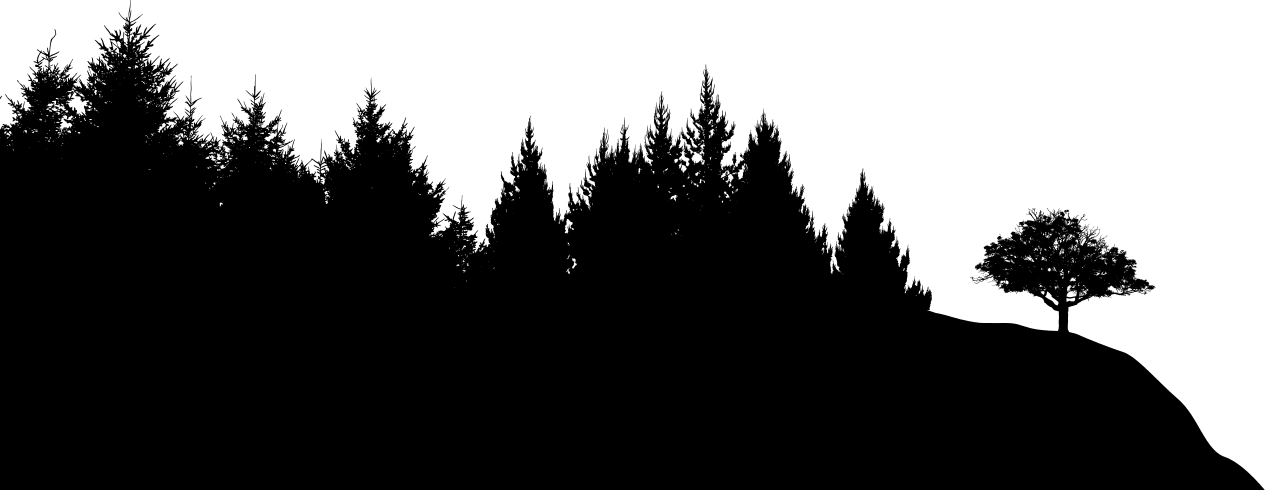
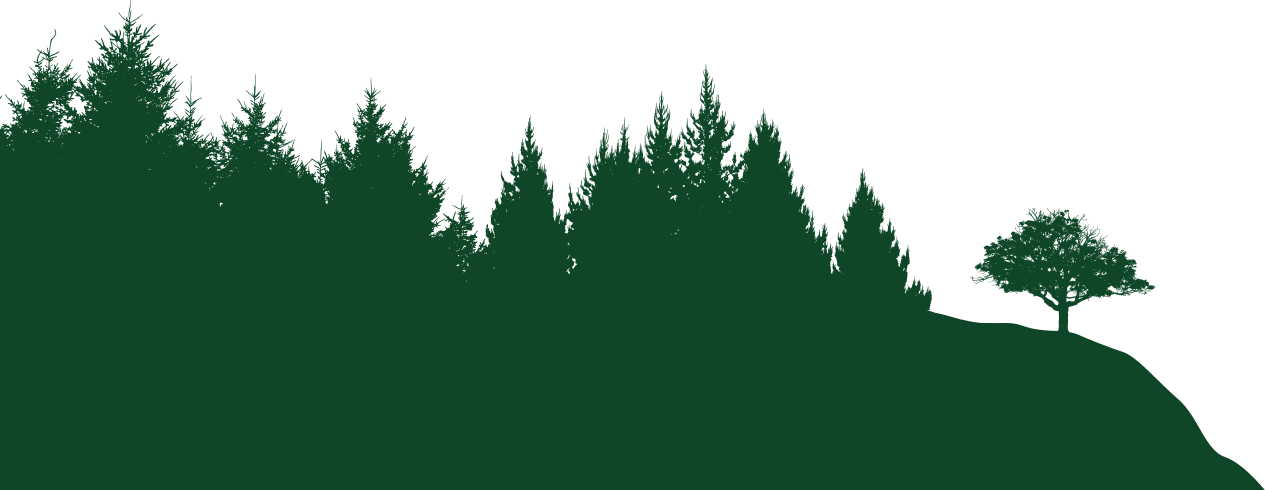
changing section order and colors / adding one background img to prices section

diff --git a/src/components/PriceSection.tsx b/src/components/PriceSection.tsx
@@ -11,30 +11,17 @@ interface Props {
     priceSectionIconLightColor: string;
     priceSectionIconDarkColor: string;
     priceSectionFirstIllu: string;
-    priceSectionSecondIllu: string;
-    priceSectionIlluWidth: number;
-    priceSectionIlluWidthOnSmallScreen: number;
     priceSectionIlluInvert: number;
+    priceSectionIlluMaxHeight: number;
 }
 
-const PriceSection = ({ xDirection, priceSectionIconLightColor, priceSectionIconDarkColor, priceSectionFirstIllu, priceSectionSecondIllu, priceSectionIlluWidthOnSmallScreen, priceSectionIlluWidth, priceSectionIlluInvert }: Props) => {
+const PriceSection = ({ xDirection, priceSectionIconLightColor, priceSectionIconDarkColor, priceSectionFirstIllu, priceSectionIlluMaxHeight, priceSectionIlluInvert }: Props) => {
 
-    const cardSectionIlluStyleLeft = {
+    const priceSectionIllu = {
         position: 'absolute',
-        bottom: '0',
+        bottom: '-100px',
         left: '0',
-        maxWidth: { xs: priceSectionIlluWidthOnSmallScreen, lg: priceSectionIlluWidth },
-        maxHeight: `${priceSectionIlluWidth / 2}px`,
-        pointerEvents: 'none',
-        filter: `invert(${priceSectionIlluInvert}%)`
-    };
-
-    const cardSectionIlluStyleRight = {
-        position: 'absolute',
-        bottom: '0',
-        right: '0',
-        maxWidth: { xs: priceSectionIlluWidthOnSmallScreen, lg: priceSectionIlluWidth },
-        maxHeight: `${priceSectionIlluWidth / 2}px`,
+        width: '100%',
         pointerEvents: 'none',
         filter: `invert(${priceSectionIlluInvert}%)`
     };
@@ -42,8 +29,8 @@ const PriceSection = ({ xDirection, priceSectionIconLightColor, priceSectionIcon
     return (
         <ThemeProvider theme={theme}>
             <Box
-                id='price'
-                bgcolor='secondary.light'
+                id='prices'
+                bgcolor='primary.main'
                 component={motion.section}
                 sx={{
                     ...CardSectionStyles,
@@ -62,7 +49,7 @@ const PriceSection = ({ xDirection, priceSectionIconLightColor, priceSectionIcon
                         <Typography
                             variant='h2'
                             sx={{ textAlign: 'center' }}
-                            color='secondary.dark'
+                            color='secondary.light'
                         >
 
                             Our prices
@@ -95,15 +82,7 @@ const PriceSection = ({ xDirection, priceSectionIconLightColor, priceSectionIcon
                     initial={{ opacity: 0, y: 100 }}
                     whileInView={{ opacity: 1, y: 0 }}
                     viewport={{ once: true }}
-                    sx={{ ...cardSectionIlluStyleLeft }}
-                />
-                <Box
-                    component={motion.img}
-                    src={priceSectionSecondIllu}
-                    initial={{ opacity: 0, y: 100 }}
-                    whileInView={{ opacity: 1, y: 0 }}
-                    viewport={{ once: true }}
-                    sx={{ ...cardSectionIlluStyleRight }}
+                    sx={{ ...priceSectionIllu }}
                 />
 
             </Box>

diff --git a/src/containers/Homepage.tsx b/src/containers/Homepage.tsx
@@ -18,6 +18,7 @@ const Homepage = () => {
 
     //for progress bar on top of page when scrolling
     const { scrollYProgress } = useScroll();
+    //framer motion setting for 'easing-animation' on scroll
     const scaleX = useSpring(scrollYProgress, {
         stiffness: 100,
         damping: 30,
@@ -72,13 +73,31 @@ const Homepage = () => {
                 cardSectionIconDarkColor={secondary}
                 cardSectionFirstIllu={Images.Forest1}
                 cardSectionSecondIllu={Images.Forest2}
-                cardSectionIlluInvert={15}
+                cardSectionIlluInvert={0}
                 cardSectionIlluWidth={300}
                 cardSectionIlluWidthOnSmallScreen={300}
                 cardBoxColor={primary}
                 cardTypoColor='secondary.light'
                 arrayOfCards={DiscoverObjects}
             ></CardSection>
+            <PriceSection
+                xDirection={100}
+                priceSectionIconLightColor={light}
+                priceSectionIconDarkColor={secondary}
+                priceSectionFirstIllu={Images.Forest3}
+                priceSectionIlluMaxHeight={100}
+                priceSectionIlluInvert={100}
+            />
+            <AboutSection
+                xDirection={-100}
+                aboutSectionIconLightColor={dark}
+                aboutSectionIconDarkColor={secondary}
+                aboutSectionFirstIllu={Images.Forest1}
+                aboutSectionSecondIllu={Images.Forest2}
+                aboutSectionIlluInvert={0}
+                aboutSectionIlluWidth={300}
+                aboutSectionIlluWidthOnSmallScreen={300}
+            />
             <ContactSection
                 xDirection={-100}
                 contactSectionIconLightColor={light}
@@ -88,26 +107,6 @@ const Homepage = () => {
                 contactSectionIlluInvert={100}
                 contactSectionIlluWidth={300}
                 contactSectionIlluWidthOnSmallScreen={300}
-            />
-            <PriceSection
-                xDirection={100}
-                priceSectionIconLightColor={dark}
-                priceSectionIconDarkColor={secondary}
-                priceSectionFirstIllu={Images.Forest1}
-                priceSectionSecondIllu={Images.Forest2}
-                priceSectionIlluInvert={15}
-                priceSectionIlluWidth={300}
-                priceSectionIlluWidthOnSmallScreen={300}
-            />
-            <AboutSection
-                xDirection={-100}
-                aboutSectionIconLightColor={light}
-                aboutSectionIconDarkColor={secondary}
-                aboutSectionFirstIllu={Images.Forest1}
-                aboutSectionSecondIllu={Images.Forest2}
-                aboutSectionIlluInvert={100}
-                aboutSectionIlluWidth={300}
-                aboutSectionIlluWidthOnSmallScreen={300}
             />
         </ThemeProvider>
     )

diff --git a/src/components/AboutSection.tsx b/src/components/AboutSection.tsx
@@ -26,7 +26,7 @@ const AboutSection = ({ xDirection, aboutSectionIconLightColor, aboutSectionIcon
         maxWidth: { xs: aboutSectionIlluWidthOnSmallScreen, lg: aboutSectionIlluWidth },
         maxHeight: `${aboutSectionIlluWidth / 2}px`,
         pointerEvents: 'none',
-        filter: `invert(${aboutSectionIlluInvert}%)`
+        filter: `brightness(${aboutSectionIlluInvert}%)`
     };
 
     const cardSectionIlluStyleRight = {
@@ -36,14 +36,14 @@ const AboutSection = ({ xDirection, aboutSectionIconLightColor, aboutSectionIcon
         maxWidth: { xs: aboutSectionIlluWidthOnSmallScreen, lg: aboutSectionIlluWidth },
         maxHeight: `${aboutSectionIlluWidth / 2}px`,
         pointerEvents: 'none',
-        filter: `invert(${aboutSectionIlluInvert}%)`
+        filter: `brightness(${aboutSectionIlluInvert}%)`
     };
 
     return (
         <ThemeProvider theme={theme}>
             <Box
                 id='about'
-                bgcolor='primary.main'
+                bgcolor='secondary.light'
                 component={motion.section}
                 sx={{
                     ...CardSectionStyles,
@@ -62,7 +62,7 @@ const AboutSection = ({ xDirection, aboutSectionIconLightColor, aboutSectionIcon
                         <Typography
                             variant='h2'
                             sx={{ textAlign: 'center' }}
-                            color='secondary.light'
+                            color='primary.main'
                         >
 
                             About us

diff --git a/src/AnimatedRoutes.tsx b/src/AnimatedRoutes.tsx
@@ -11,9 +11,6 @@ import Discover from './containers/Discover/Discover';
 import Animals from './containers/Discover/Animals';
 import PoultryYard from './containers/Discover/PoultryYard';
 import FoxForest from './containers/Discover/FoxForest';
-import Prices from './containers/Prices';
-import About from './containers/About';
-import Contact from './containers/Contact';
 
 const AnimatedRoutes = () => {
 
@@ -46,11 +43,8 @@ const AnimatedRoutes = () => {
                 <Route path='/events/close-up' element={<CloseUp />} />
                 <Route path='/discover' element={<Discover />} />
                 <Route path='/discover/animals' element={<Animals />} />
-                <Route path='/discover/poultry-yard' element={<PoultryYard />} />
+                <Route path='/discover/poultry-yard' element={<PoultryYard title='Fox Village Of Zsámbék - Our lovely poultry yard' />} />
                 <Route path='/discover/fox-forest' element={<FoxForest />} />
-                <Route path='/prices' element={<Prices />} />
-                <Route path='/about' element={<About />} />
-                <Route path='/contact' element={<Contact />} />
                 <Route path='*' element={<ErrorPage />} />
             </Routes>
         </AnimatePresence>

diff --git a/src/constants/Images.tsx b/src/constants/Images.tsx
@@ -16,6 +16,7 @@ import FoxSilhouette1 from "../assets/img/foxsilhouette1.png";
 import FoxSilhouette2 from "../assets/img/foxsilhouette2.png";
 import FoxSilhouette3 from "../assets/img/foxsilhouette3.png";
 import FoxSilhouette4 from "../assets/img/foxsilhouette4.png";
+import Forest3 from "../assets/img/forest1.png";
 
 export const Images = {
 
@@ -27,6 +28,7 @@ export const Images = {
     Peacock1: Peacock1,
     Forest1: Forest1,
     Forest2: Forest2,
+    Forest3: Forest3,
     FoxSilhouette1: FoxSilhouette1,
     FoxSilhouette2: FoxSilhouette2,
     FoxSilhouette3: FoxSilhouette3,

diff --git a/src/containers/Discover/PoultryYard.tsx b/src/containers/Discover/PoultryYard.tsx
@@ -1,7 +1,14 @@
 import HeroSection from '../../components/HeroSection';
 import { Images } from '../../constants/Images';
 
-const PoultryYard = () => {
+interface Props {
+    title: string;
+}
+
+const PoultryYard = ({ title }: Props) => {
+
+    document.title = title;
+
     return (
         <HeroSection
             backgroundImage={Images.Hen1}

diff --git a/src/hooks/usePages.ts b/src/hooks/usePages.ts
@@ -1,0 +1,15 @@
+import { useEffect } from "react";
+
+interface Props {
+
+    props: any;
+}
+
+const Page = ({ props }: Props) => {
+    useEffect(() => {
+        document.title = props.title || "";
+    }, [props.title]);
+    return props.children;
+};
+
+export default Page;
